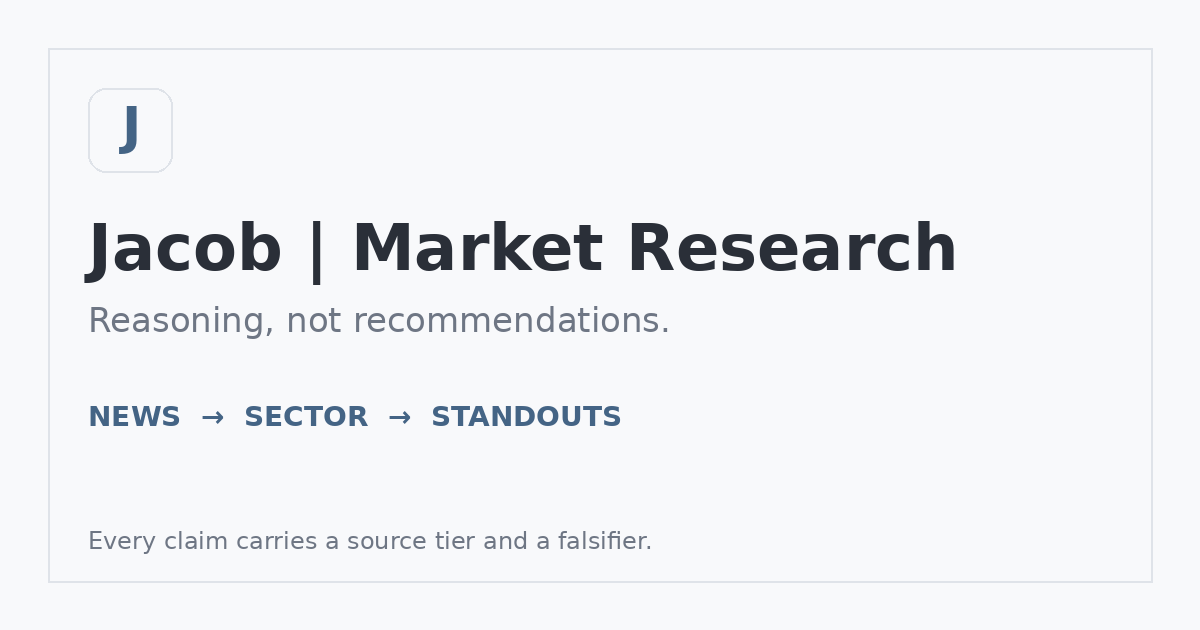
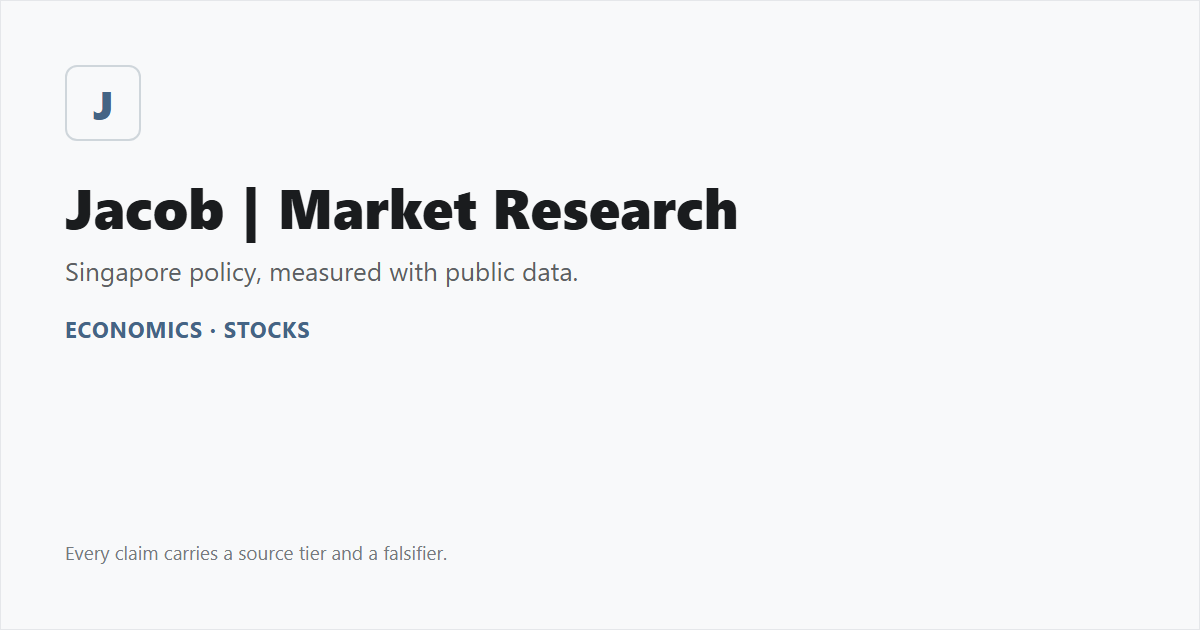
Bake in Morning palette, fix dark-mode accent bug, ship the social card
Both decisions from the Phase 2 review are in: Morning palette, and
description Option 1 ("Singapore policy, measured with public data." —
reused verbatim from the live homepage, not composed).

- assets/css/extended/custom.css: Morning's cooler blue-grey --code-bg/
  --border replace the old neutral rgb(245,245,245); --accent moves to
  #3d6c8c (5.64:1 on white). Palette-comparison scaffolding (data-palette
  blocks) removed now that one is chosen.
- Found and fixed the same ".dark never matches" bug as the economics.css
  one from the last commit, this time in custom.css's own --accent/--pos/
  --neg block: dark mode had been silently falling through to the LIGHT
  --accent (#446485, 2.71:1 on the dark background — a live WCAG AA
  failure on every link and badge) since whenever this was written. Fixed
  to :root[data-theme="dark"]; this site's own theme-init script always
  stamps that attribute, so no media-query fallback is needed. New dark
  accent is Morning's #85acc9, 6.94:1.
- layouts/partials/extend_head.html: removed the matching ?palette= script.
- hugo.toml: description and keywords no longer describe deleted sections
  (NEWS/SECTOR/STANDOUTS, "weekly market analysis"). Title stays "Jacob |
  Market Research" as instructed.
- static/img/social-preview.png: regenerated at the same 1200x630, same
  visual structure as before, corrected text only.

diff --git a/assets/css/extended/custom.css b/assets/css/extended/custom.css
@@ -231,19 +231,37 @@ main .post-content > p { margin-bottom: 1em; }
    ═══════════════════════════════════════════════════════════════════ */
 
 :root {
-  /* Steel blue, the colour already used in the favicon and the social
-     card, so the site matches its own preview. 6.16:1 on white. */
-  --accent:        #446485;
-  --accent-quiet:  #6b86a4;
+  /* Morning palette (chosen from three options after Phase 1/2 review):
+     a fresher, cooler steel blue than the original #446485, on a cooler
+     blue-grey code-bg/border instead of neutral grey. 5.64:1 on white. */
+  --accent:        #3d6c8c;
+  --accent-quiet:  #6f93ad;
   --pos:           #2E7D5B;   /* 5.00:1 on white */
   --neg:           #8A6116;   /* 5.52:1 on white. Amber, not red: these
                                  mark "look closer", not "bad news". */
+  /* The dull-background complaint: PaperMod's own --code-bg default is
+     rgb(245,245,245), numerically neutral grey (not literally beige) but
+     flat against white cards. Morning's replacement is a cool blue-grey
+     instead — every list page, every tinted component (method strip, lead
+     figure, aside, src-tag) inherits this since they're all built on
+     --code-bg/--border already. Dark mode is untouched: only the accent
+     hue changed above, per "dark mode must stay as good as it is". */
+  --code-bg: #f4f7f9;
+  --border:  #e0e6ea;
 }
-.dark {
-  /* #446485 is only 2.71:1 on the dark background, so dark mode needs
-     genuinely lighter values rather than the same hex. */
-  --accent:        #7BA3C9;   /* 6.30:1 */
-  --accent-quiet:  #93a9c0;
+/* Was ".dark" — this site's own theme-init script (in the PaperMod partial
+   this project inherits) always stamps data-theme="dark"/"light" on <html>
+   before paint, including when just following system preference, so a
+   media-query fallback is not needed here. But ".dark" as a class has never
+   matched anything: --accent/--accent-quiet/--pos/--neg were silently
+   falling through to the LIGHT values in dark mode — #446485 at only
+   2.71:1 on the dark background, a live WCAG AA failure on every link and
+   badge, undiscovered until this pass because the wrong hex was still
+   "blue enough" to not look obviously broken in a screenshot. Found and
+   fixed alongside the same bug in economics.css. */
+:root[data-theme="dark"] {
+  --accent:        #85acc9;   /* Morning's dark-mode accent, 6.94:1 */
+  --accent-quiet:  #a3c0d6;
   --pos:           #6FBF9A;   /* 7.62:1 */
   --neg:           #D6A544;   /* 7.41:1 */
 }
@@ -451,38 +469,3 @@ main .post-content > p { margin-bottom: 1em; }
    tinted inset background and the desktop margin float — added there
    instead of a second, competing ruleset here. */
 
-/* ═══════════════════════════════════════════════════════════════════
-   TEMPORARY — palette comparison scaffolding for Jacob's review only.
-   Switch with ?palette=morning|mint|sky on any page (see the inline script
-   in extend_head.html). Remove this whole block and the script once a
-   palette is chosen and baked into the tokens above — this is not meant
-   to ship. Dark mode is intentionally left alone in every option except
-   the accent hue: Jacob asked that dark mode not get worse, so only light
-   backgrounds change here.
-
-   Baseline being replaced: --code-bg (the list/card background every list
-   page and every tinted component inherits) is currently rgb(245,245,245)
-   — numerically neutral grey, not literally beige, but flat and low-
-   contrast against white cards, which reads as dull exactly as flagged.
-   ═══════════════════════════════════════════════════════════════════ */
-html[data-palette="morning"] {
-  --code-bg: #f4f7f9; --border: #e0e6ea;
-  --accent: #3d6c8c; --accent-quiet: #6f93ad;
-}
-html[data-palette="morning"].dark, html[data-palette="morning"][data-theme="dark"] {
-  --accent: #85acc9; --accent-quiet: #a3c0d6;
-}
-html[data-palette="mint"] {
-  --code-bg: #f2f8f4; --border: #dcebe1;
-  --accent: #2f7d5e; --accent-quiet: #6ba488;
-}
-html[data-palette="mint"].dark, html[data-palette="mint"][data-theme="dark"] {
-  --accent: #7fc2a4; --accent-quiet: #9ed3bb;
-}
-html[data-palette="sky"] {
-  --code-bg: #f3f4fb; --border: #dfe1f0;
-  --accent: #4d5fd1; --accent-quiet: #7c87dd;
-}
-html[data-palette="sky"].dark, html[data-palette="sky"][data-theme="dark"] {
-  --accent: #9aa4f0; --accent-quiet: #b7bff5;
-}

diff --git a/layouts/partials/extend_head.html b/layouts/partials/extend_head.html
@@ -18,12 +18,3 @@
 <link rel="preconnect" href="https://fonts.googleapis.com">
 <link rel="preconnect" href="https://fonts.gstatic.com" crossorigin>
 <link href="https://fonts.googleapis.com/css2?family=Source+Serif+4:opsz,wght@8..60,400;8..60,600&display=swap&subset=latin" rel="stylesheet">
-
-<!-- TEMPORARY — palette review only, for ?palette=morning|mint|sky. Remove
-     alongside the matching block in custom.css once a palette is chosen. -->
-<script>
-(function(){
-  var m = location.search.match(/[?&]palette=([a-z]+)/);
-  if (m) document.documentElement.setAttribute('data-palette', m[1]);
-})();
-</script>
